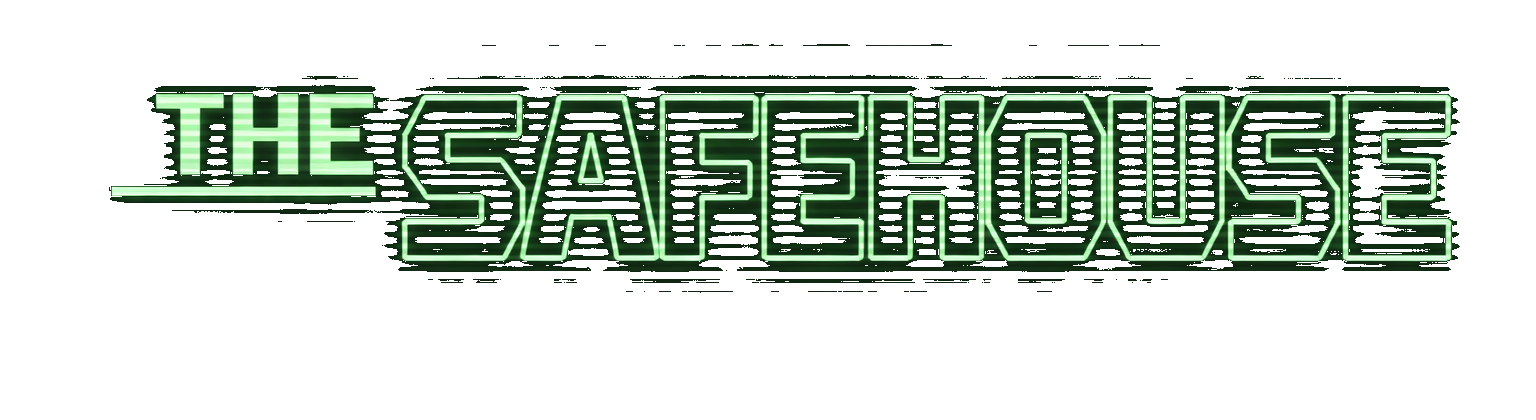
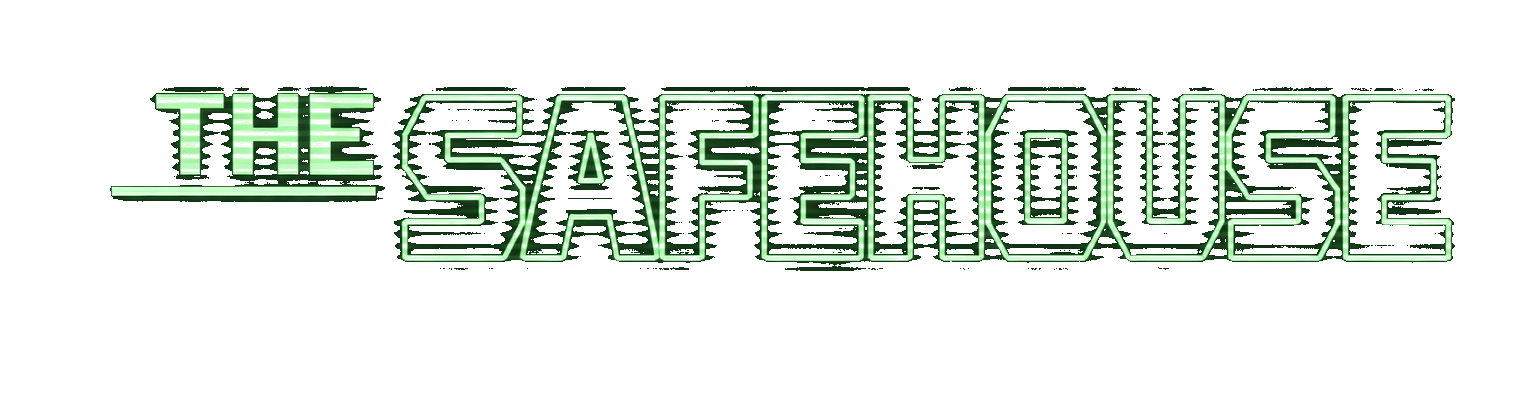
fix: stabilize menu viewport and better blend header background

Changed region(s): [[0.0625, 0.1548, 0.9688, 0.681], [0.5312, 0.0929, 0.5625, 0.1238]]

diff --git a/main.js b/main.js
@@ -793,14 +793,36 @@ function initSafehouse() {
 
     const mobile = document.createElement("source");
     mobile.media = "(max-width: 760px)";
-    mobile.srcset = "assets/header-mobile-crop.png?v=20260226-h2";
+    mobile.srcset = "assets/header-mobile-crop.png?v=20260226-h3";
     picture.appendChild(mobile);
 
     const image = document.createElement("img");
     image.className = "brand-header-image";
-    image.src = "assets/header-desktop-crop.png?v=20260226-h2";
+    image.src = "assets/header-desktop-crop.png?v=20260226-h3";
+    image.width = 1536;
+    image.height = 420;
     image.alt = "THE SAFEHOUSE";
     image.decoding = "async";
+    image.loading = "eager";
+    image.fetchPriority = "high";
+    image.addEventListener("load", () => {
+      if (state.phase !== "menu") {
+        return;
+      }
+      requestAnimationFrame(() => {
+        const actions = state.guestMenu.actions || [];
+        if (!actions.length) {
+          return;
+        }
+        const index = Math.max(0, Math.min(actions.length - 1, state.guestMenu.index || 0));
+        const row = (state.guestMenu.rows || [])[index];
+        if (row && typeof row.scrollIntoView === "function") {
+          row.scrollIntoView({ block: "nearest" });
+        } else {
+          screen.scrollTop = screen.scrollHeight;
+        }
+      });
+    });
     picture.appendChild(image);
 
     header.appendChild(picture);

diff --git a/style.css b/style.css
@@ -193,13 +193,15 @@ body {
 .brand-header-picture {
   display: block;
   width: min(100%, 1120px);
+  aspect-ratio: 1536 / 420;
   line-height: 0;
 }
 
 .brand-header-image {
   display: block;
   width: 100%;
-  height: auto;
+  height: 100%;
+  object-fit: contain;
   opacity: 0.98;
   filter: drop-shadow(0 0 16px rgba(145, 247, 167, 0.2));
 }
@@ -529,11 +531,11 @@ body {
 
   .brand-header-picture {
     width: min(100%, 560px);
+    aspect-ratio: 1024 / 560;
   }
 
   .brand-header-image {
     max-height: 132px;
-    object-fit: contain;
     opacity: 1;
   }
 
